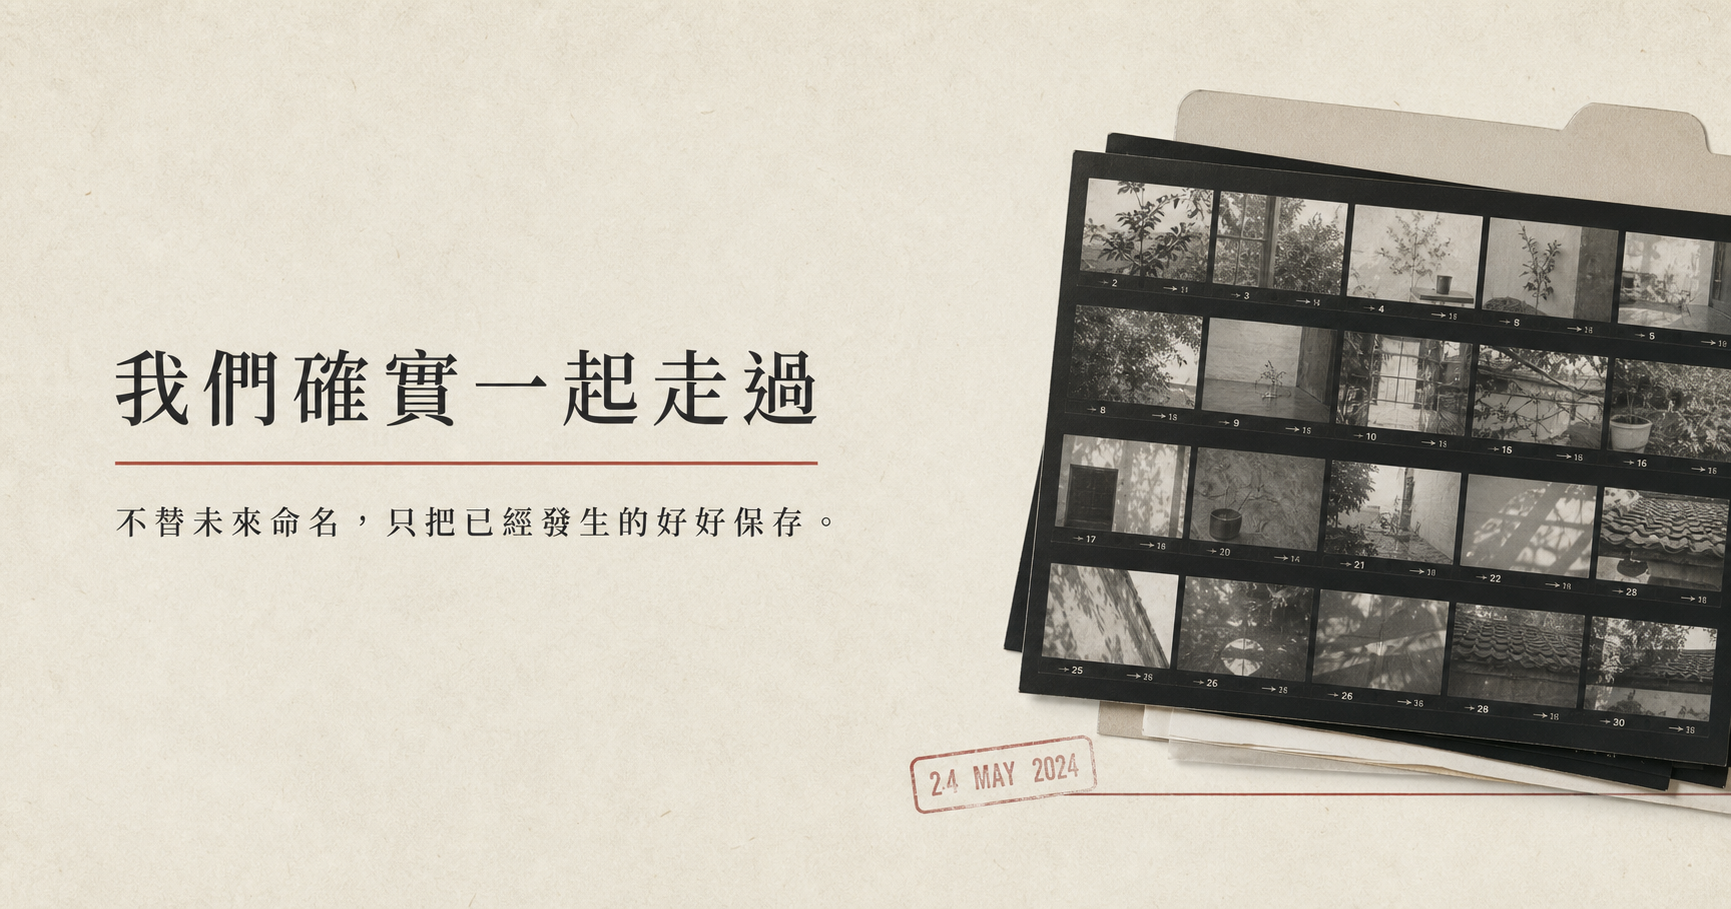
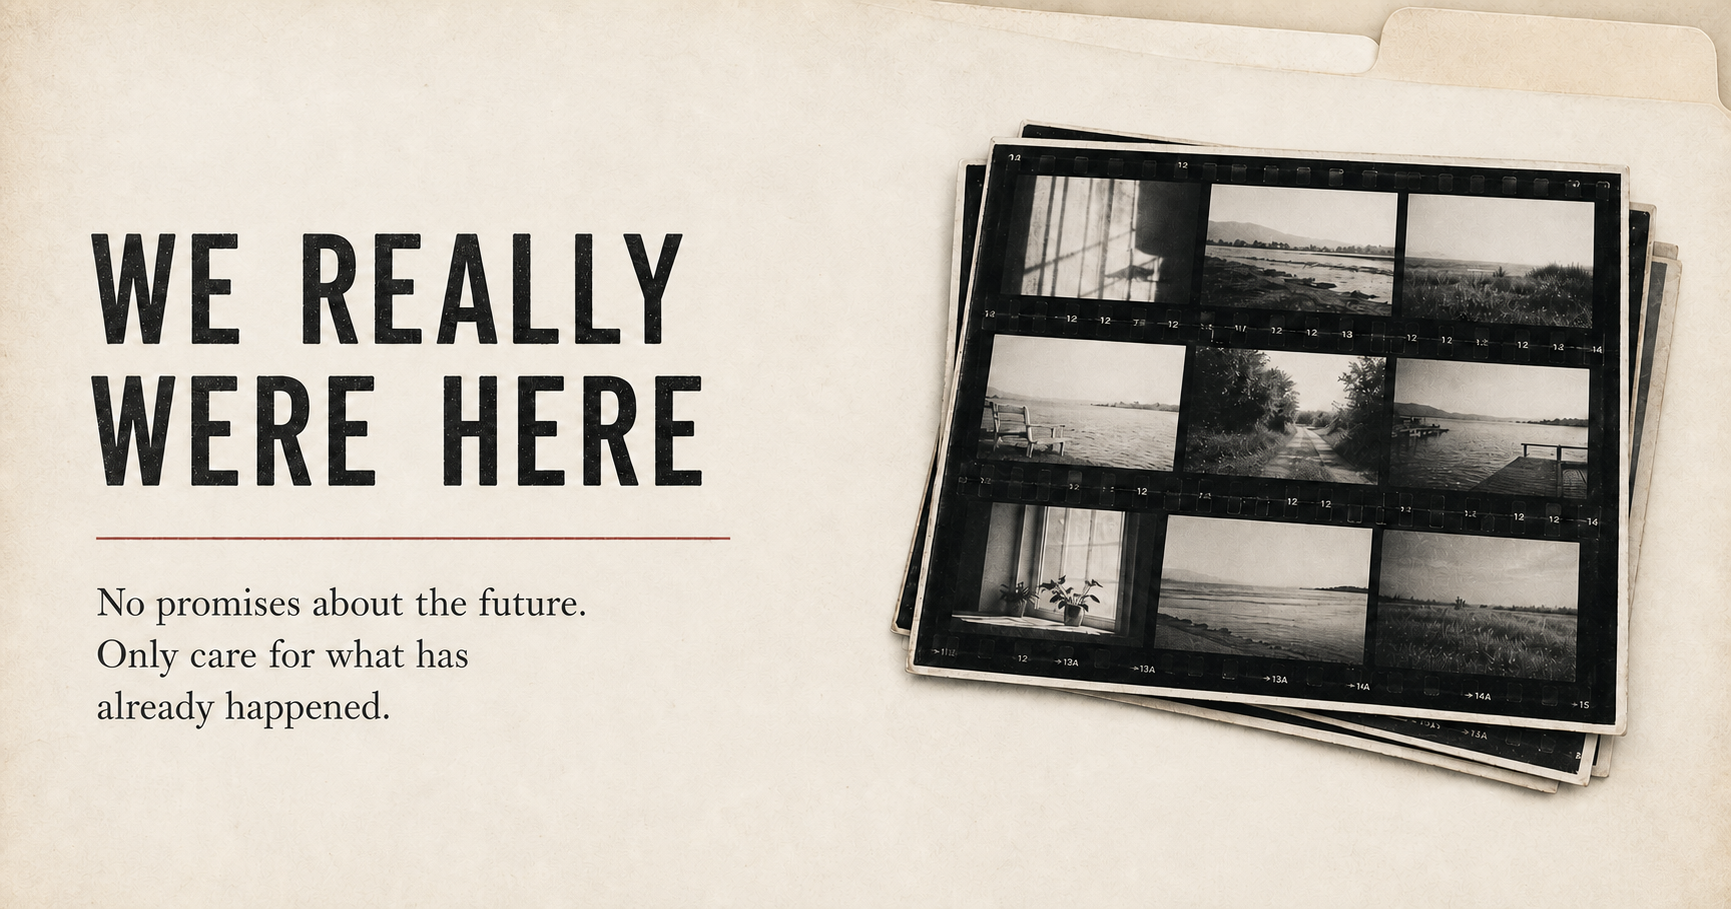
Translate memory archive to English

diff --git a/app/page.tsx b/app/page.tsx
@@ -2,36 +2,36 @@ const records = [
   {
     no: "001",
     date: "2024.02.14",
-    place: "一個記得很清楚的地方",
-    title: "那天，我們一起笑了很久",
-    note: "照片會記住光線，也會記住當時沒有說出口的話。",
+    place: "A place I still remember clearly",
+    title: "The day we laughed for hours",
+    note: "A photograph holds the light—and sometimes the things we did not know how to say.",
     tone: "warm",
     hash: "a14f2e",
   },
   {
     no: "002",
     date: "2024.07.06",
-    place: "途中",
-    title: "一段沒有計畫的路",
-    note: "有些快樂沒有特別的原因，只是剛好身邊是彼此。",
+    place: "Somewhere along the way",
+    title: "A road we never planned",
+    note: "Some moments were happy for no special reason. We simply happened to be there together.",
     tone: "blue",
     hash: "7c06ad",
   },
   {
     no: "003",
     date: "2025.01.01",
-    place: "新年的第一天",
-    title: "一起迎接過的清晨",
-    note: "不是對未來的保證，只是那一刻，我們確實站在一起。",
+    place: "The first morning of the year",
+    title: "A morning we welcomed together",
+    note: "Not a promise about the future. Just the truth that, in that moment, we stood side by side.",
     tone: "gray",
     hash: "0101be",
   },
 ];
 
 const log = [
-  { date: "2025.01.01", title: "留下新年的第一張照片", hash: "0101be" },
-  { date: "2024.07.06", title: "記錄途中發生的小事", hash: "7c06ad" },
-  { date: "2024.02.14", title: "把這一天放進檔案", hash: "a14f2e" },
+  { date: "2025.01.01", title: "Saved the first photograph of the year", hash: "0101be" },
+  { date: "2024.07.06", title: "Recorded the small things along the way", hash: "7c06ad" },
+  { date: "2024.02.14", title: "Placed this day in the archive", hash: "a14f2e" },
 ];
 
 export default function Home() {
@@ -40,11 +40,11 @@ export default function Home() {
       <header className="site-header">
         <a className="archive-mark" href="#top">
           <span>ARCHIVE</span>
-          <strong>我們的回憶</strong>
+          <strong>Our Memories</strong>
         </a>
-        <nav aria-label="網站導覽">
-          <a href="#records">影像紀錄</a>
-          <a href="#log">時間紀錄</a>
+        <nav aria-label="Site navigation">
+          <a href="#records">Photographs</a>
+          <a href="#log">Timeline</a>
           <span className="privacy">PRIVATE COLLECTION</span>
         </nav>
       </header>
@@ -55,19 +55,19 @@ export default function Home() {
           <span>STATUS / PRESERVED</span>
         </div>
         <div className="hero-copy">
-          <p className="kicker">關於我們曾經共享的時間</p>
+          <p className="kicker">About the time we once shared</p>
           <h1>
-            我們確實
+            We really
             <br />
-            一起走過
+            were here
           </h1>
           <p className="lead">
-            不替未來命名，
+            No promises about the future.
             <br />
-            只把已經發生的好好保存。
+            Only care for what has already happened.
           </p>
         </div>
-        <div className="contact-sheet" aria-label="回憶照片預留位置">
+        <div className="contact-sheet" aria-label="Placeholders for memory photographs">
           {Array.from({ length: 12 }, (_, index) => (
             <div className={`frame frame-${(index % 4) + 1}`} key={index}>
               <span>{String(index + 1).padStart(2, "0")}</span>
@@ -79,7 +79,8 @@ export default function Home() {
           </div>
         </div>
         <p className="hero-caption">
-          這裡不是一封要求答案的情書。它只是一個地方，讓那些真實存在過的日子，不因距離或時間而消失。
+          This is not a love letter asking for an answer. It is simply a place where the days that
+          truly happened do not have to disappear because of distance or time.
         </p>
       </section>
 
@@ -88,9 +89,9 @@ export default function Home() {
           <span>01</span>
           <div>
             <p>SELECTED RECORDS</p>
-            <h2>被留下來的片段</h2>
+            <h2>Fragments we kept</h2>
           </div>
-          <p className="section-note">照片之後可以換成你們真正的影像</p>
+          <p className="section-note">These placeholders can later become your real photographs.</p>
         </div>
 
         <div className="record-grid">
@@ -115,14 +116,14 @@ export default function Home() {
       <section className="statement">
         <p className="statement-label">ARCHIVE NOTE</p>
         <blockquote>
-          「有些關係會改變，有些人會走向不同的地方。
+          “Some relationships change. Some people move toward different places.
           <br />
-          但曾經真心對待彼此的時間，不需要被否定。」
+          But the time we treated each other with care does not need to be erased.”
         </blockquote>
         <p className="statement-body">
-          回憶永存，不代表要求一段關係永遠不變。
+          Preserving a memory does not mean asking a relationship to remain unchanged forever.
           <br />
-          它只是承認：這些日子曾經發生，而且對我很重要。
+          It only means admitting that these days happened—and that they mattered to me.
         </p>
       </section>
 
@@ -130,7 +131,7 @@ export default function Home() {
         <div className="history-heading">
           <div>
             <p>VERSION HISTORY</p>
-            <h2>時間留下的紀錄</h2>
+            <h2>What time left behind</h2>
           </div>
           <span>archive/main</span>
         </div>
@@ -147,8 +148,8 @@ export default function Home() {
       </section>
 
       <footer>
-        <span>我們的回憶 / PRIVATE ARCHIVE</span>
-        <p>保存已經發生的，不預設尚未到來的。</p>
+        <span>OUR MEMORIES / PRIVATE ARCHIVE</span>
+        <p>Preserving what happened, without defining what has not.</p>
       </footer>
     </main>
   );

diff --git a/app/layout.tsx b/app/layout.tsx
@@ -27,21 +27,21 @@ export async function generateMetadata(): Promise<Metadata> {
   const socialImage = `${origin}/og.png`;
 
   return {
-    title: "我們確實一起走過",
-    description: "不替未來命名，只把已經發生的好好保存。",
+    title: "We Really Were Here",
+    description: "No promises about the future. Only care for what has already happened.",
     icons: {
       icon: "/favicon.svg",
       shortcut: "/favicon.svg",
     },
     openGraph: {
-      title: "我們確實一起走過",
-      description: "不替未來命名，只把已經發生的好好保存。",
+      title: "We Really Were Here",
+      description: "No promises about the future. Only care for what has already happened.",
       images: [{ url: socialImage, width: 1200, height: 630 }],
     },
     twitter: {
       card: "summary_large_image",
-      title: "我們確實一起走過",
-      description: "不替未來命名，只把已經發生的好好保存。",
+      title: "We Really Were Here",
+      description: "No promises about the future. Only care for what has already happened.",
       images: [socialImage],
     },
   };
@@ -53,7 +53,7 @@ export default function RootLayout({
   children: React.ReactNode;
 }>) {
   return (
-    <html lang="zh-Hant">
+    <html lang="en">
       <body
         className={`${geistSans.variable} ${geistMono.variable} ${notoSerif.variable}`}
       >
